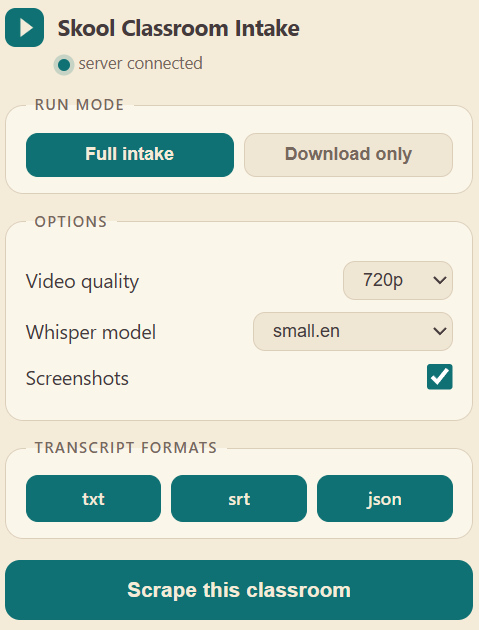
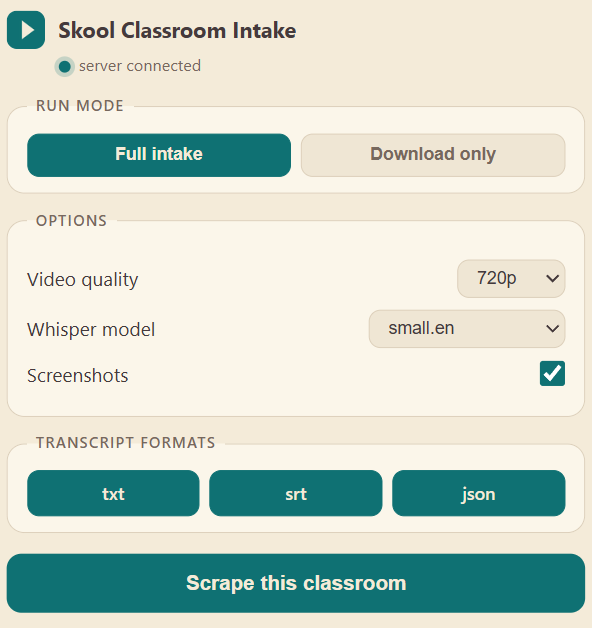
docs: refresh popup screenshot (420px) and add lesson-picker screenshot

diff --git a/README.md b/README.md
@@ -93,8 +93,14 @@ pip install ".[tray,gpu]"
    ```
 2. Load the extension: open `chrome://extensions`, enable **Developer mode**, click
    **Load unpacked**, and select the `extension/` folder.
-3. Open a Skool classroom tab, click the extension icon, choose your settings, and
-   hit **Scrape this classroom**. Progress shows right in the popup.
+3. Open a Skool classroom tab, click the extension icon, tick the lessons you want
+   (or leave them all), and hit **Scrape this classroom**. Progress shows in the popup.
+
+<p align="center">
+  <img src="assets/lesson-picker.png" alt="Lesson picker: choose which lessons or whole sections to scrape" width="320">
+  <br>
+  <em>Cherry-pick individual lessons or whole sections before scraping.</em>
+</p>
 
 That is it. No cookie exports, no config files. The extension reads your live
 Skool session (including the HttpOnly auth cookies) and hands the job to the local